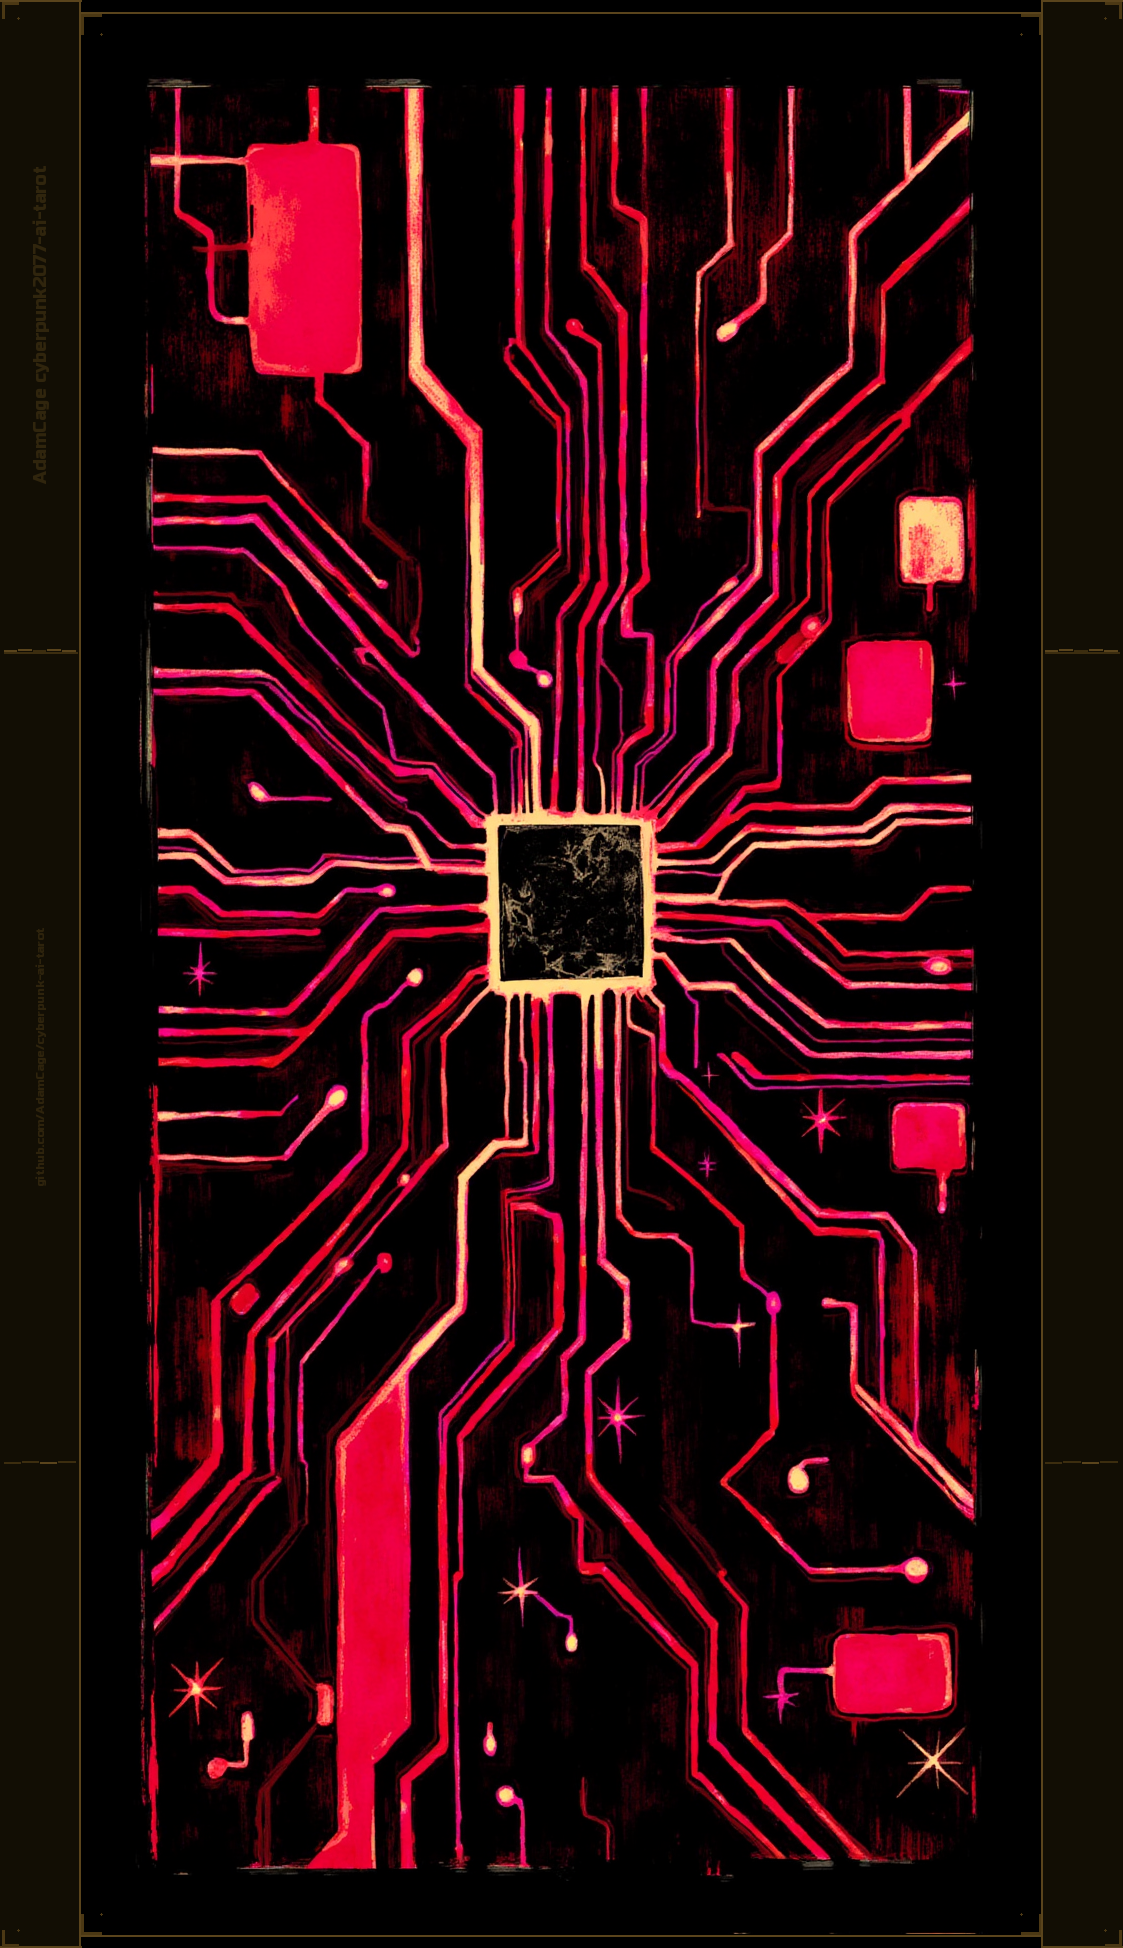
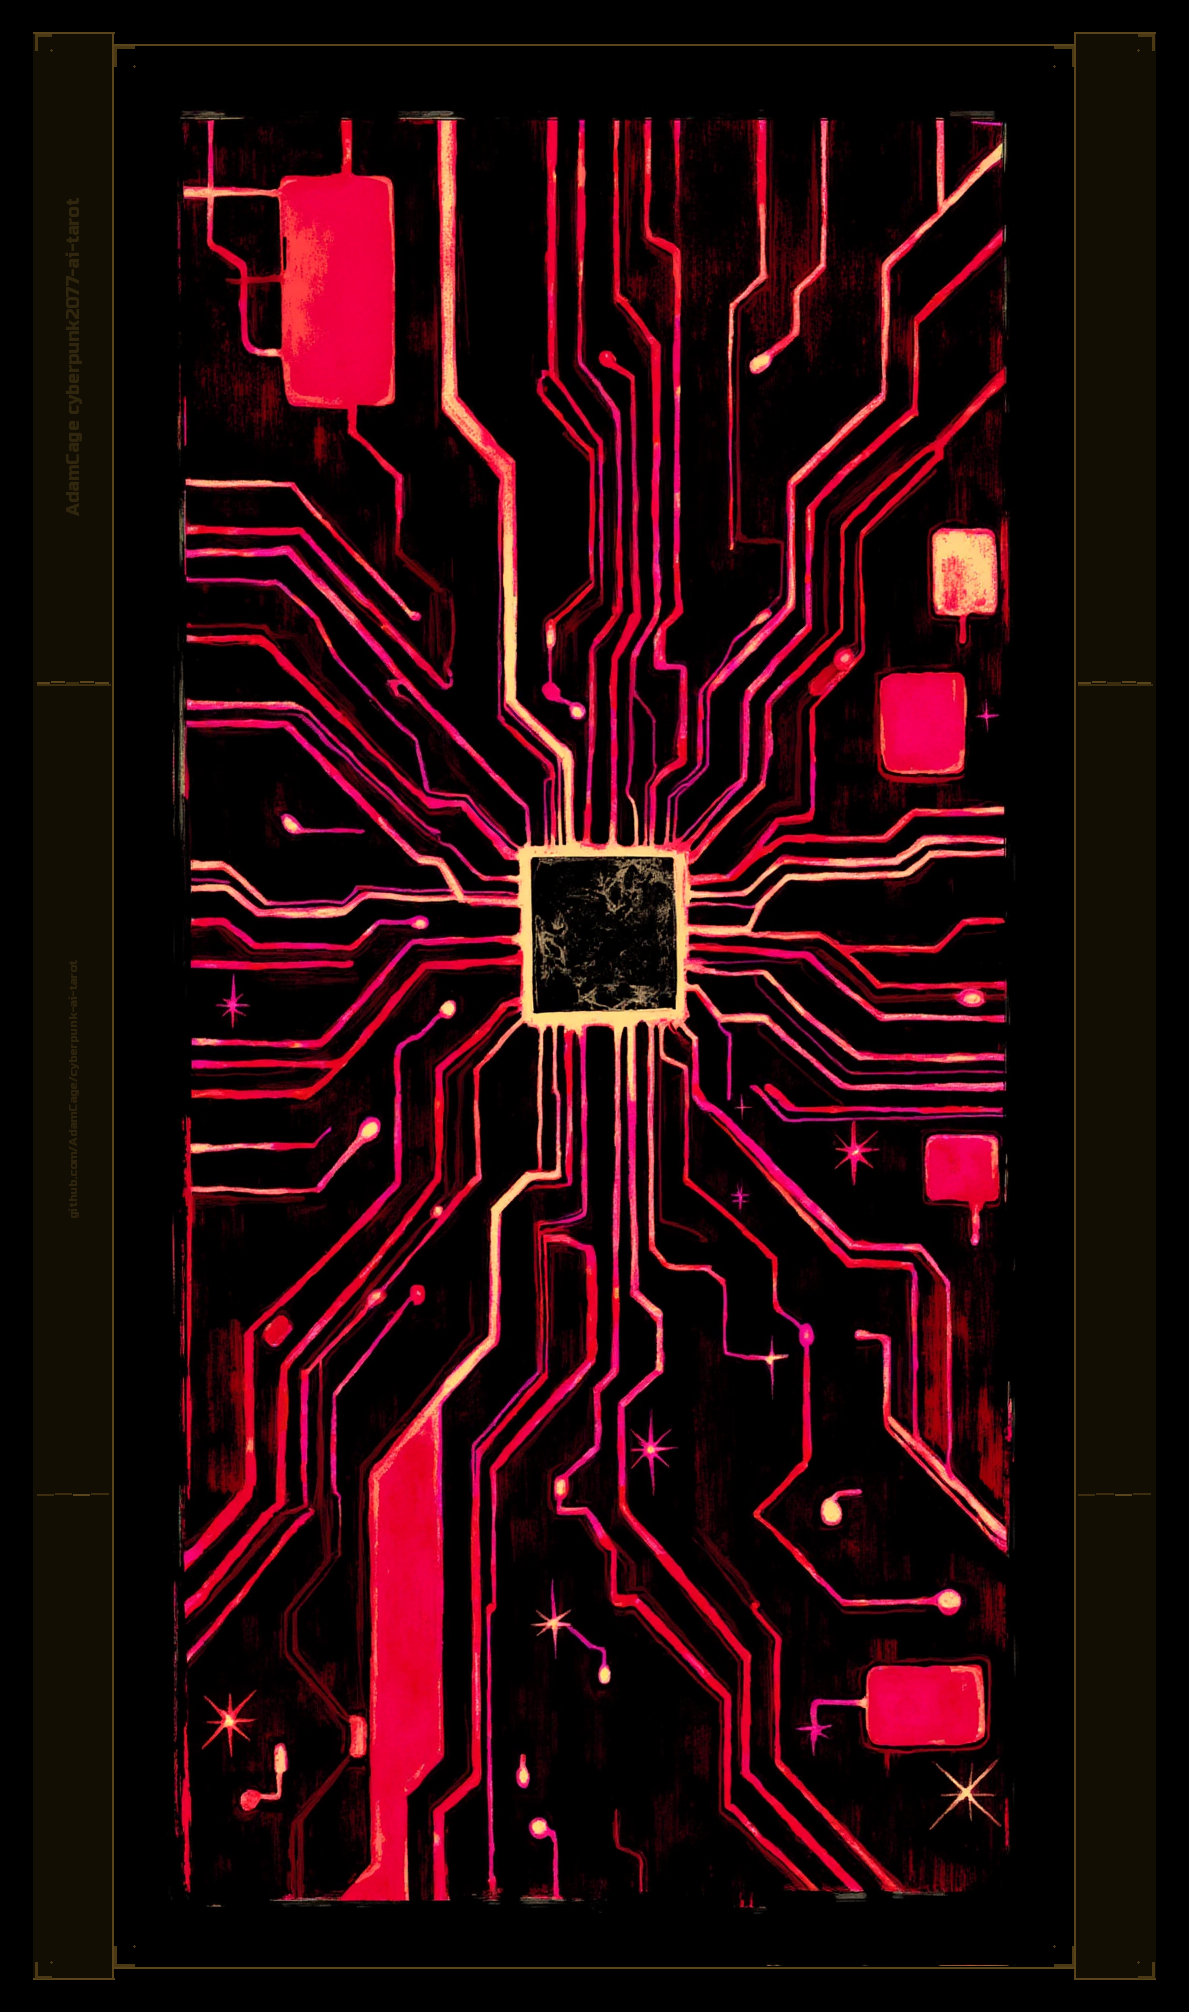
fix card_back borders

diff --git a/add_card_back_border.py b/add_card_back_border.py
@@ -1,6 +1,6 @@
 #!/usr/bin/env python3
 """
-add_card_back_border.py — добавляет симметричные рамки к рубашке карты.
+add_card_back_border.py — добавляет симметричные рамки и bleed к рубашке карты.
 
 Две узкие колонки (левая + правая), идентичные по стилю колоды.
 Левая колонка содержит пасхалки:
@@ -8,8 +8,12 @@ add_card_back_border.py — добавляет симметричные рамк
   - ссылка на проект чуть заметнее
 Правая колонка — зеркальный декор без текста.
 
-Исходник:  data/generated/final/card_back.png   (960x1920)
-Результат: data/generated/card_back_to_print.png (1123x1948)
+После добавления рамки накладывается bleed 2mm (33px по горизонтали, 32px по вертикали)
+при пропорции карты 69x120mm — чёрная полоса по всем 4 сторонам для резки при печати.
+
+Исходник:  data/generated/final/card_back.png      (960x1920)
+С рамкой:                                          (1123x1948)
+Результат: data/generated/card_back_to_print.png   (1189x2012)
 """
 
 import io
@@ -27,9 +31,14 @@ INPUT_PATH   = PROJECT_ROOT / "data" / "generated" / "final" / "card_back.png"
 OUTPUT_PATH  = PROJECT_ROOT / "data" / "generated" / "card_back_to_print.png"
 FONT_PATH    = PROJECT_ROOT / "data" / "RussoOne-Regular.ttf"
 
-# Целевой итоговый размер совпадает с финальными картами колоды (cups_01.png и т.д.)
+# Размер с рамкой совпадает с финальными картами колоды (cups_01.png и т.д.)
 TARGET_W = 1123
 TARGET_H = 1948
+
+# Bleed 2mm при пропорции карты 69x120mm
+CARD_W_MM = 69.0
+CARD_H_MM = 120.0
+BLEED_MM  = 2.0
 
 # Цвет рубашки — нейтральное тёплое золото, не привязано к масти
 ACCENT = (110,  85, 35)    # приглушённое золото (было 180,140,60 — слишком ярко)
@@ -253,14 +262,26 @@ def main():
         sys.exit(1)
 
     img = Image.open(INPUT_PATH)
-    print(f"Input:  {INPUT_PATH.name}  {img.size[0]}x{img.size[1]} px")
+    print(f"Input:   {INPUT_PATH.name}  {img.size[0]}x{img.size[1]} px")
 
-    result = add_back_border(img)
-    print(f"Output: {OUTPUT_PATH.name}  {result.size[0]}x{result.size[1]} px")
+    bordered = add_back_border(img)
+    print(f"Framed:  {bordered.size[0]}x{bordered.size[1]} px")
+
+    # ── Bleed 2mm ─────────────────────────────────────────────────────────────
+    bw, bh = bordered.size
+    bleed_x = round(bw / CARD_W_MM * BLEED_MM)
+    bleed_y = round(bh / CARD_H_MM * BLEED_MM)
+    final_w = bw + 2 * bleed_x
+    final_h = bh + 2 * bleed_y
+
+    result = Image.new("RGB", (final_w, final_h), (0, 0, 0))
+    result.paste(bordered, (bleed_x, bleed_y))
+    print(f"Output:  {OUTPUT_PATH.name}  {final_w}x{final_h} px  "
+          f"(bleed +{bleed_x}px left/right, +{bleed_y}px top/bottom)")
 
     OUTPUT_PATH.parent.mkdir(parents=True, exist_ok=True)
     result.save(str(OUTPUT_PATH), format="PNG", optimize=False)
-    print(f"Saved:  {OUTPUT_PATH}")
+    print(f"Saved:   {OUTPUT_PATH}")
 
 
 if __name__ == "__main__":
